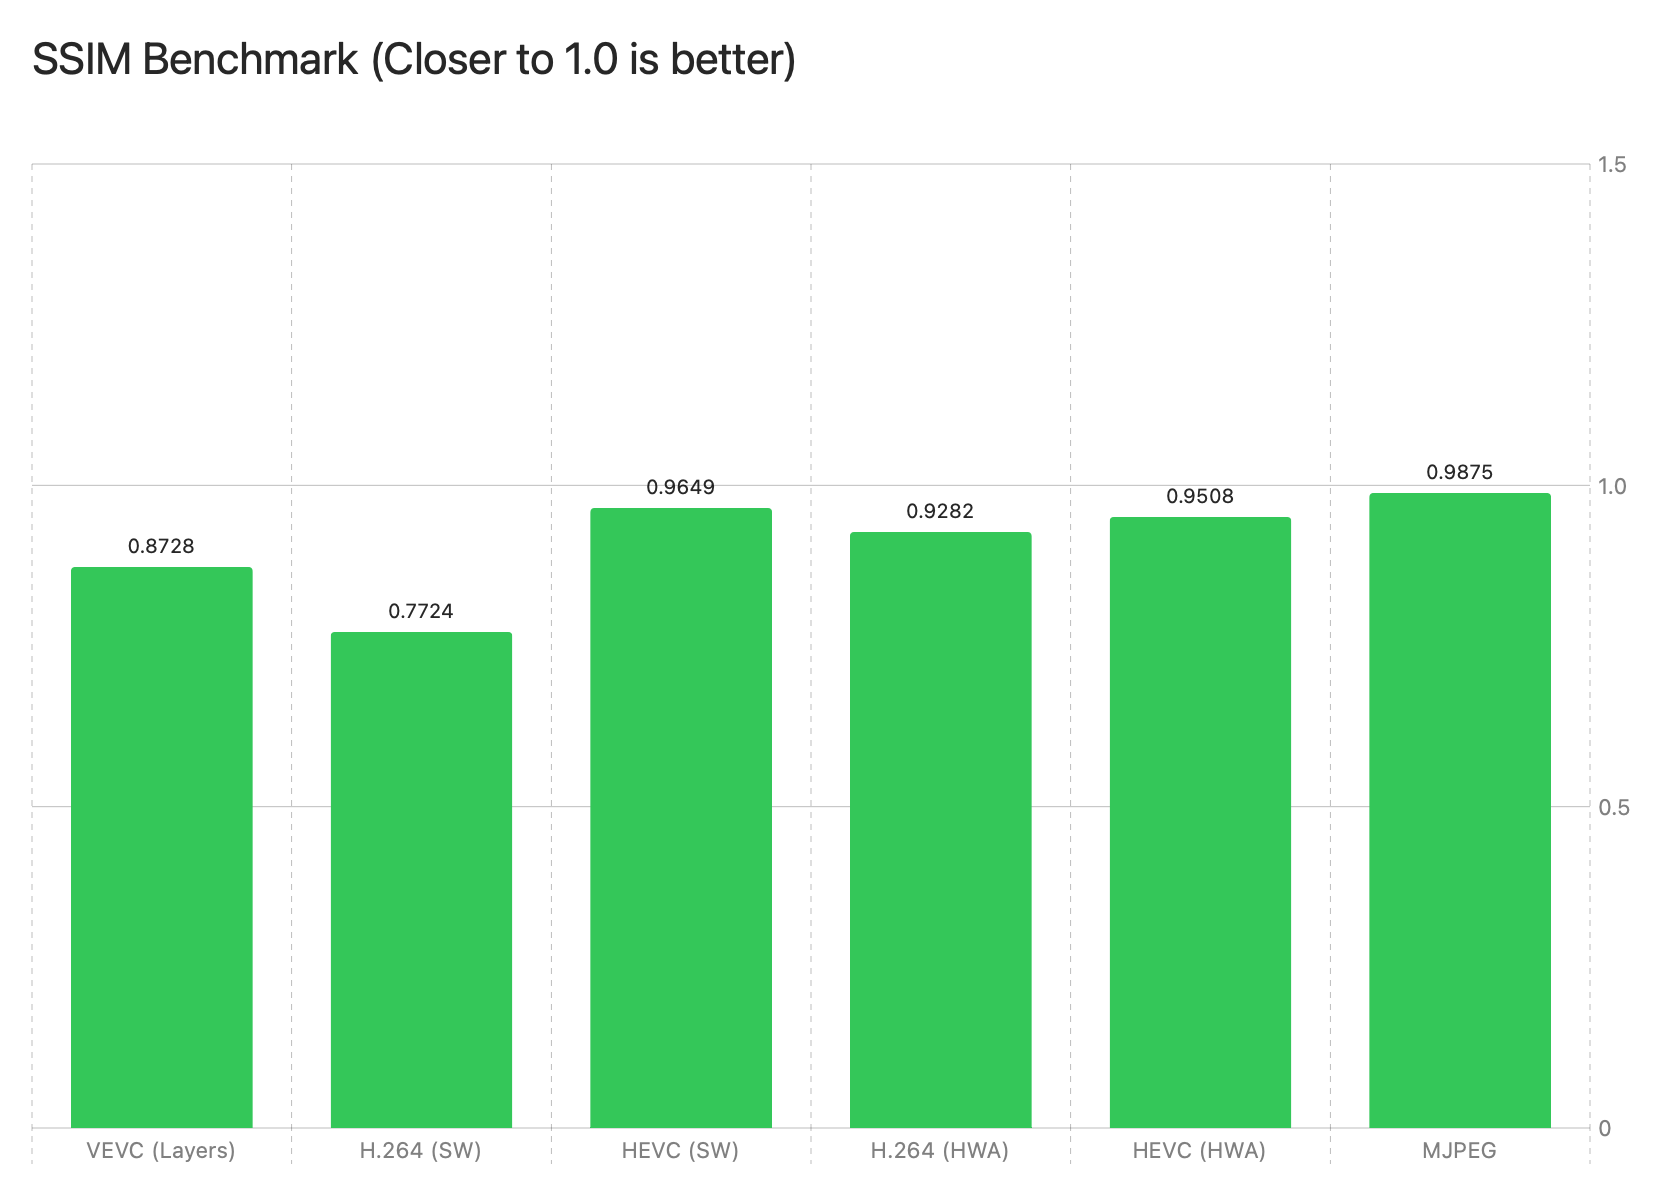
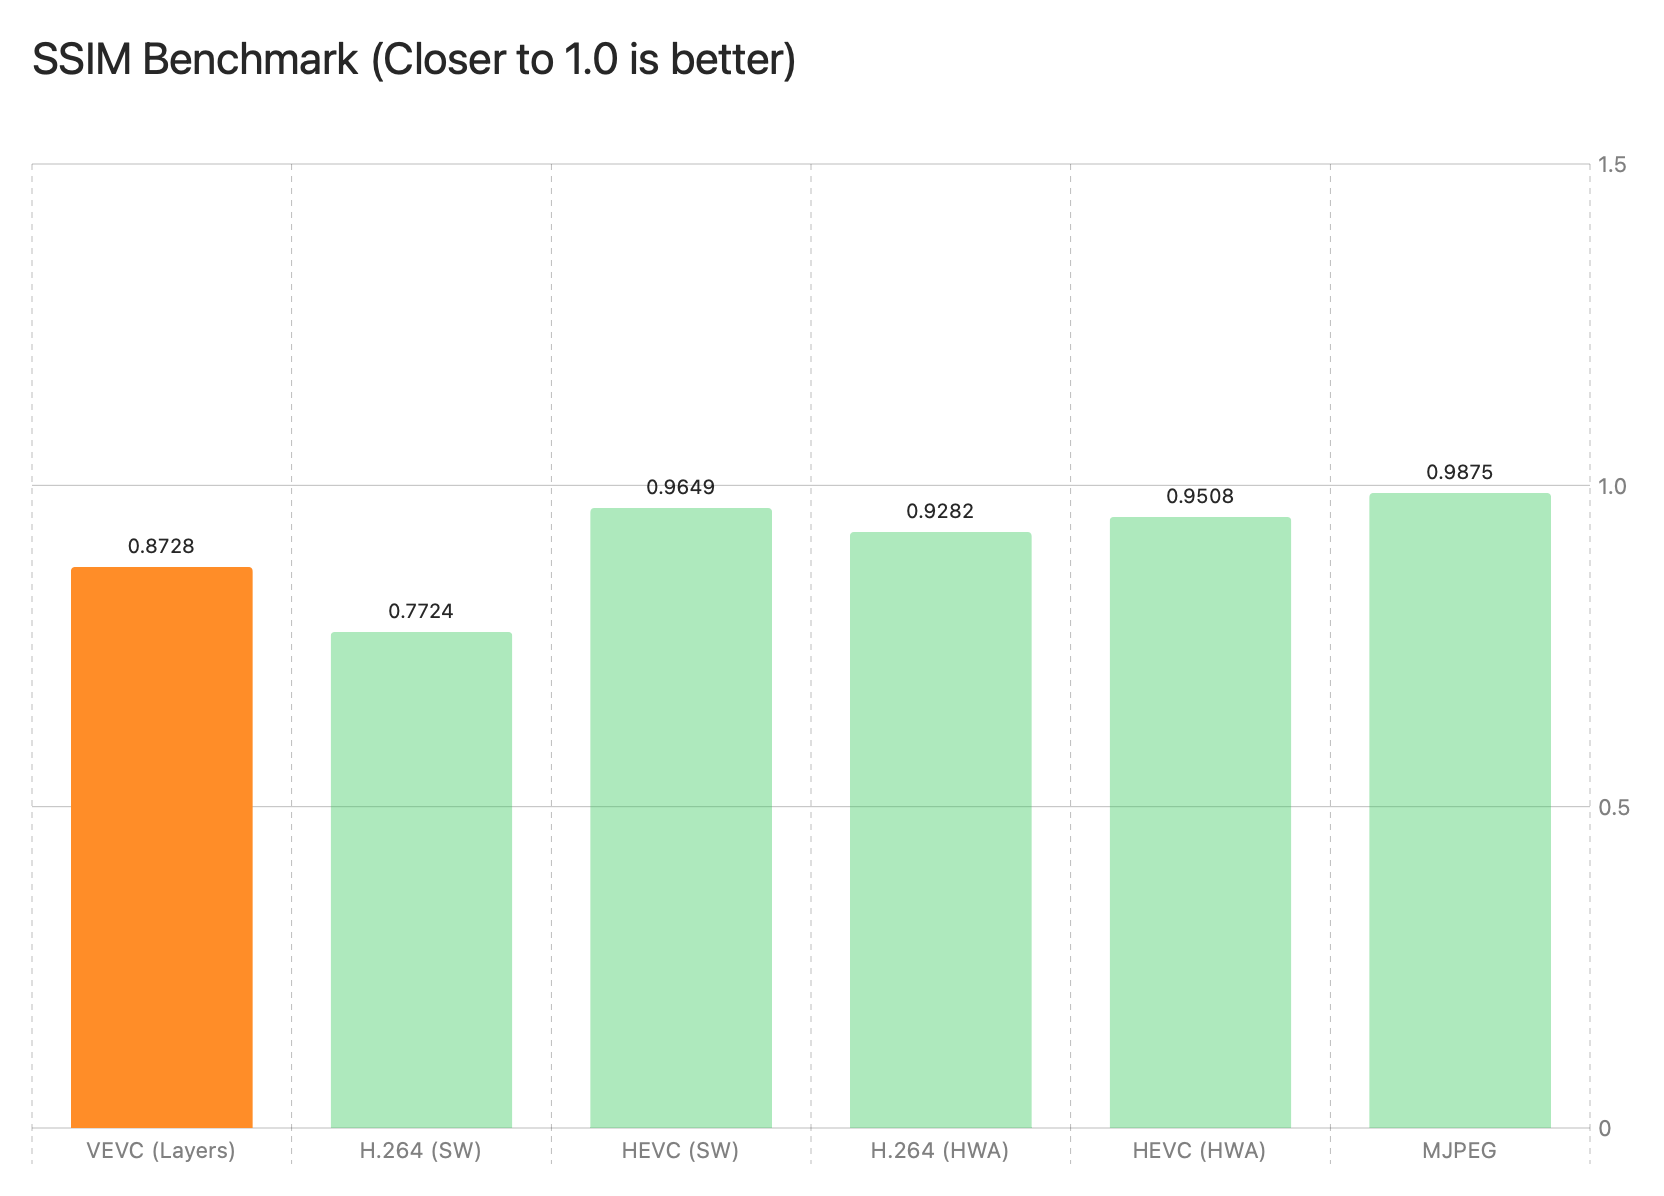
VEVC colored

diff --git a/Sources/example/Chart.swift b/Sources/example/Chart.swift
@@ -28,18 +28,19 @@ struct SpeedSizeChart: View {
             
             Chart(results, id: \.name) { res in
                 // Using BarMarks for Encoding and Decoding Times
+                let isVEVC = res.name.contains("VEVC")
                 BarMark(
                     x: .value("Codec", res.name),
                     y: .value("Time (ms)", res.encTimeMs)
                 )
-                .foregroundStyle(by: .value("Type", "Encode Time"))
+                .foregroundStyle(by: .value("Category", isVEVC ? "VEVC Encode" : "Encode Time"))
                 .position(by: .value("Type", "Encode Time"))
                 
                 BarMark(
                     x: .value("Codec", res.name),
                     y: .value("Time (ms)", res.decTimeMs)
                 )
-                .foregroundStyle(by: .value("Type", "Decode Time"))
+                .foregroundStyle(by: .value("Category", isVEVC ? "VEVC Decode" : "Decode Time"))
                 .position(by: .value("Type", "Decode Time"))
                 
                 // Normalized Size
@@ -48,7 +49,7 @@ struct SpeedSizeChart: View {
                     x: .value("Codec", res.name),
                     y: .value("Time (ms)", normalizedSize)
                 )
-                .foregroundStyle(by: .value("Type", "Size (KB)"))
+                .foregroundStyle(by: .value("Category", isVEVC ? "VEVC Size" : "Size (KB)"))
                 .symbol(.circle)
                 .symbolSize(100)
                 .annotation(position: .top) {
@@ -80,9 +81,12 @@ struct SpeedSizeChart: View {
                 }
             }
             .chartForegroundStyleScale([
-                "Encode Time": Color.blue,
-                "Decode Time": Color.green,
-                "Size (KB)": Color.purple
+                "VEVC Encode": Color.orange,
+                "VEVC Decode": Color.yellow,
+                "VEVC Size": Color.red,
+                "Encode Time": Color.blue.opacity(0.4),
+                "Decode Time": Color.green.opacity(0.4),
+                "Size (KB)": Color.purple.opacity(0.4)
             ])
             .frame(width: 800, height: 500)
             .padding()
@@ -104,11 +108,12 @@ struct PsnrChart: View {
                 .padding()
             
             Chart(validResults, id: \.name) { res in
+                let isVEVC = res.name.contains("VEVC")
                 BarMark(
                     x: .value("Codec", res.name),
                     y: .value("PSNR (dB)", res.avgPSNR!)
                 )
-                .foregroundStyle(.blue)
+                .foregroundStyle(isVEVC ? Color.orange : Color.blue.opacity(0.4))
                 .annotation(position: .top) {
                     Text(String(format: "%.2f", res.avgPSNR!))
                         .font(.caption)
@@ -135,11 +140,12 @@ struct SsimChart: View {
                 .padding()
             
             Chart(validResults, id: \.name) { res in
+                let isVEVC = res.name.contains("VEVC")
                 BarMark(
                     x: .value("Codec", res.name),
                     y: .value("SSIM", res.avgSSIM!)
                 )
-                .foregroundStyle(.green)
+                .foregroundStyle(isVEVC ? Color.orange : Color.green.opacity(0.4))
                 .annotation(position: .top) {
                     Text(String(format: "%.4f", res.avgSSIM!))
                         .font(.caption)
